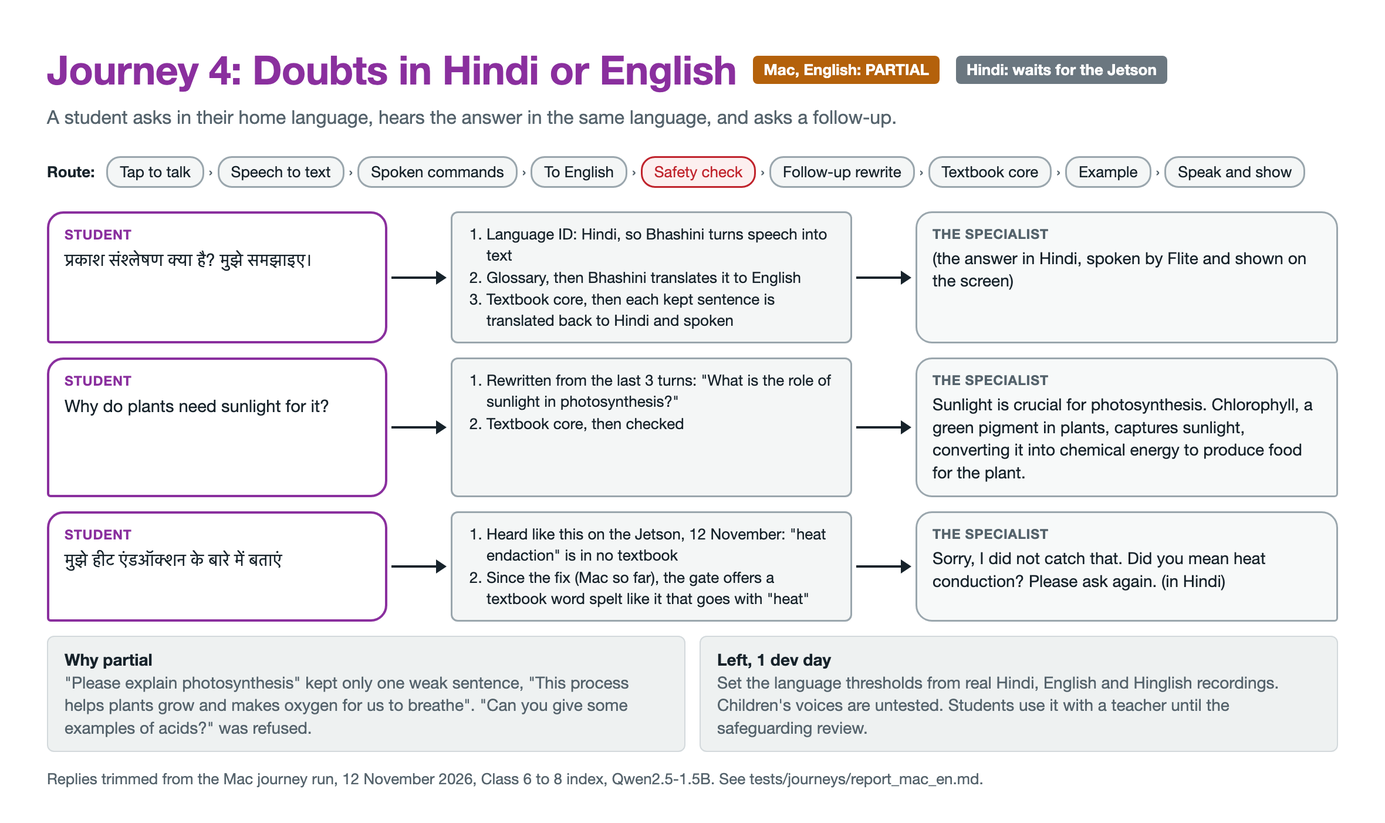
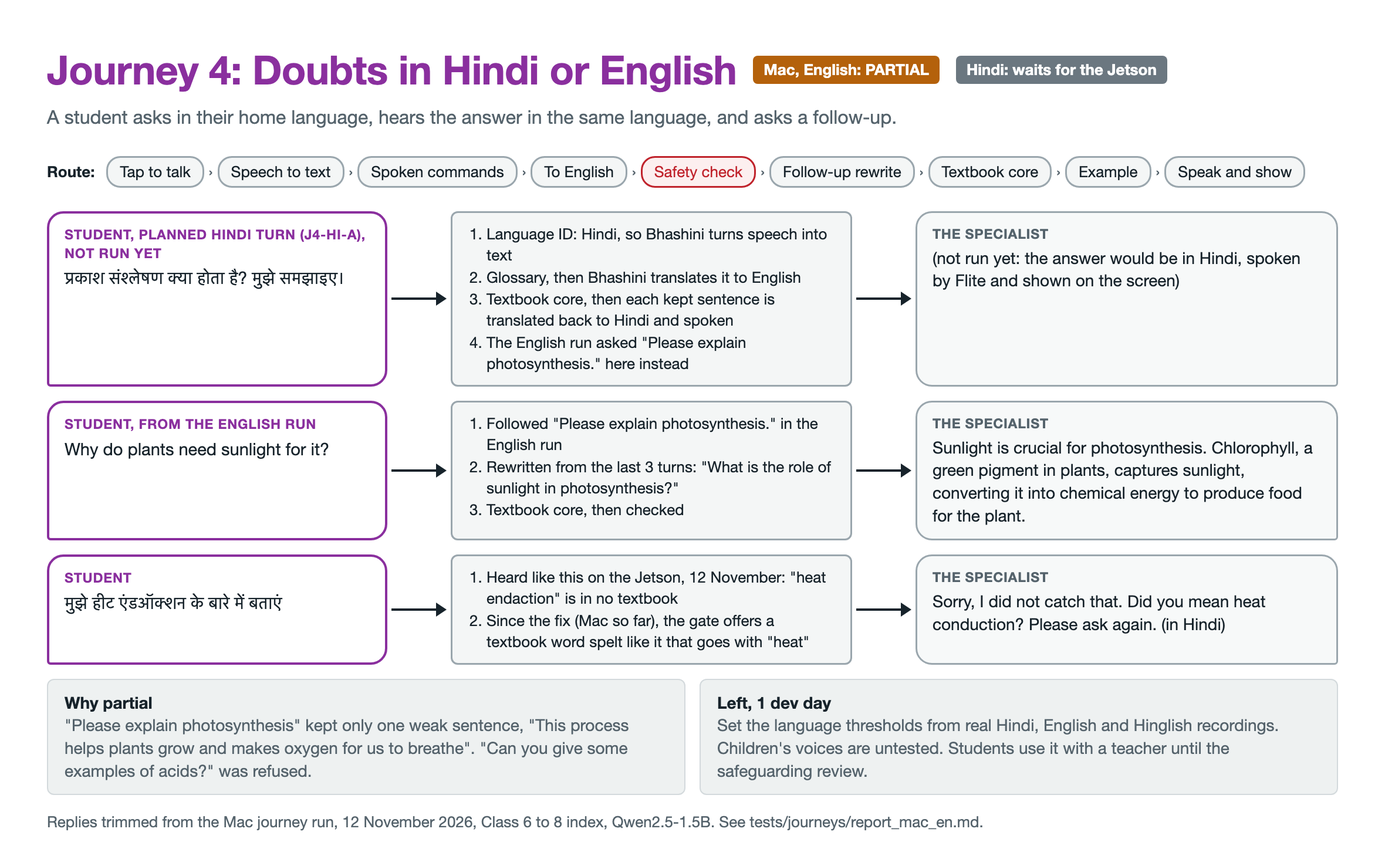
Keep the screen on from the inventory, ship the journey runner, fix doc contradictions

diff --git a/docs/diagrams/j4.html b/docs/diagrams/j4.html
@@ -14,8 +14,8 @@
 <div class="head2"><h1 class="j4" style="margin:0">Journey 4: Doubts in Hindi or English</h1><span class="status partial">Mac, English: PARTIAL</span><span class="status pending">Hindi: waits for the Jetson</span></div>
 <p class="sub">A student asks in their home language, hears the answer in the same language, and asks a follow-up.</p>
 <div class="route"><b style="margin-right:6px">Route:</b><span class="step">Tap to talk</span><span class="to">›</span><span class="step">Speech to text</span><span class="to">›</span><span class="step">Spoken commands</span><span class="to">›</span><span class="step">To English</span><span class="to">›</span><span class="step safety">Safety check</span><span class="to">›</span><span class="step">Follow-up rewrite</span><span class="to">›</span><span class="step">Textbook core</span><span class="to">›</span><span class="step">Example</span><span class="to">›</span><span class="step">Speak and show</span></div>
-<div class="turn"><div class="said"><small>Student</small>प्रकाश संश्लेषण क्या है? मुझे समझाइए।</div><div class="mini"></div><div class="steps"><ol><li>Language ID: Hindi, so Bhashini turns speech into text</li><li>Glossary, then Bhashini translates it to English</li><li>Textbook core, then each kept sentence is translated back to Hindi and spoken</li></ol></div><div class="mini"></div><div class="reply"><small>The Specialist</small>(the answer in Hindi, spoken by Flite and shown on the screen)</div></div>
-<div class="turn"><div class="said"><small>Student</small>Why do plants need sunlight for it?</div><div class="mini"></div><div class="steps"><ol><li>Rewritten from the last 3 turns: "What is the role of sunlight in photosynthesis?"</li><li>Textbook core, then checked</li></ol></div><div class="mini"></div><div class="reply"><small>The Specialist</small>Sunlight is crucial for photosynthesis. Chlorophyll, a green pigment in plants, captures sunlight, converting it into chemical energy to produce food for the plant.</div></div>
+<div class="turn"><div class="said"><small>Student, planned Hindi turn (J4-hi-a), not run yet</small>प्रकाश संश्लेषण क्या होता है? मुझे समझाइए।</div><div class="mini"></div><div class="steps"><ol><li>Language ID: Hindi, so Bhashini turns speech into text</li><li>Glossary, then Bhashini translates it to English</li><li>Textbook core, then each kept sentence is translated back to Hindi and spoken</li><li>The English run asked "Please explain photosynthesis." here instead</li></ol></div><div class="mini"></div><div class="reply"><small>The Specialist</small>(not run yet: the answer would be in Hindi, spoken by Flite and shown on the screen)</div></div>
+<div class="turn"><div class="said"><small>Student, from the English run</small>Why do plants need sunlight for it?</div><div class="mini"></div><div class="steps"><ol><li>Followed "Please explain photosynthesis." in the English run</li><li>Rewritten from the last 3 turns: "What is the role of sunlight in photosynthesis?"</li><li>Textbook core, then checked</li></ol></div><div class="mini"></div><div class="reply"><small>The Specialist</small>Sunlight is crucial for photosynthesis. Chlorophyll, a green pigment in plants, captures sunlight, converting it into chemical energy to produce food for the plant.</div></div>
 <div class="turn"><div class="said"><small>Student</small>मुझे हीट एंडऑक्शन के बारे में बताएं</div><div class="mini"></div><div class="steps"><ol><li>Heard like this on the Jetson, 12 November: "heat endaction" is in no textbook</li><li>Since the fix (Mac so far), the gate offers a textbook word spelt like it that goes with "heat"</li></ol></div><div class="mini"></div><div class="reply"><small>The Specialist</small>Sorry, I did not catch that. Did you mean heat conduction? Please ask again. (in Hindi)</div></div>
 <div class="cols2" style="margin-top:8px"><div class="note"><b>Why partial</b><br>"Please explain photosynthesis" kept only one weak sentence, "This process helps plants grow and makes oxygen for us to breathe". "Can you give some examples of acids?" was refused.</div><div class="note"><b>Left, 1 dev day</b><br>Set the language thresholds from real Hindi, English and Hinglish recordings. Children's voices are untested. Students use it with a teacher until the safeguarding review.</div></div>
 <p class="sub" style="font-size:13px;margin:14px 0 0">Replies trimmed from the Mac journey run, 12 November 2026, Class 6 to 8 index, Qwen2.5-1.5B. See tests/journeys/report_mac_en.md.</p>

diff --git a/docs/diagrams/journeys.py b/docs/diagrams/journeys.py
@@ -112,13 +112,15 @@ JOURNEYS = [
         "status": [("partial", "Mac, English: PARTIAL"), ("pending", "Hindi: waits for the Jetson")],
         "route": ["tap", "asr", "cmd", "mt", "safety", "rewrite", "core", "example", "out"],
         "turns": [
-            ("Student", "प्रकाश संश्लेषण क्या है? मुझे समझाइए।",
+            ("Student, planned Hindi turn (J4-hi-a), not run yet", "प्रकाश संश्लेषण क्या होता है? मुझे समझाइए।",
              ["Language ID: Hindi, so Bhashini turns speech into text",
               "Glossary, then Bhashini translates it to English",
-              "Textbook core, then each kept sentence is translated back to Hindi and spoken"],
-             "(the answer in Hindi, spoken by Flite and shown on the screen)", False),
-            ("Student", "Why do plants need sunlight for it?",
-             ["Rewritten from the last 3 turns: \"What is the role of sunlight in photosynthesis?\"",
+              "Textbook core, then each kept sentence is translated back to Hindi and spoken",
+              "The English run asked \"Please explain photosynthesis.\" here instead"],
+             "(not run yet: the answer would be in Hindi, spoken by Flite and shown on the screen)", False),
+            ("Student, from the English run", "Why do plants need sunlight for it?",
+             ["Followed \"Please explain photosynthesis.\" in the English run",
+              "Rewritten from the last 3 turns: \"What is the role of sunlight in photosynthesis?\"",
               "Textbook core, then checked"],
              "Sunlight is crucial for photosynthesis. Chlorophyll, a green pigment in plants, captures sunlight, "
              "converting it into chemical energy to produce food for the plant.", False),

diff --git a/tests/journeys/run_journeys.py b/tests/journeys/run_journeys.py
@@ -14,10 +14,14 @@ real answer model (Qwen in Ollama), the real answer check and the real safety ch
     python3 -W ignore tests/journeys/run_journeys.py --lang en --out tests/journeys/report_mac_en.md
     python3 -W ignore tests/journeys/run_journeys.py --journey J3 --variant J3-en-a
 
-On the Jetson, where Bhashini runs, for the Hindi variants:
+On the Jetson, where Bhashini runs, for the Hindi variants. The install puts this file in
+/opt/specialist/app/tests/journeys and adds the specialist-journeys command, which runs it
+with the voice service's index, models, Ollama model and settings, but never with the
+switch-off permission or the screen. Stop the service first to free memory:
 
-    cd ~/specialist && PYTHONPATH=python:. /opt/specialist/venv/bin/python -W ignore \\
-        tests/journeys/run_journeys.py --lang hi --out ~/journeys_hi.md
+    sudo systemctl stop specialist-voice
+    specialist-journeys --lang hi --out ~/journeys_hi.md
+    sudo systemctl start specialist-voice
 
 A variant passes when every check on every turn passes. It fails when a turn marked
 "core" fails, since then the journey cannot go on as the user expects; otherwise it is
@@ -44,6 +48,7 @@ from datetime import datetime
 from typing import Dict, List, Optional
 
 HERE = os.path.dirname(os.path.abspath(__file__))
+# The repo, or /opt/specialist/app on the device: both hold python/ and local/ here.
 ROOT = os.path.dirname(os.path.dirname(HERE))
 sys.path.insert(0, os.path.join(ROOT, "python"))
 sys.path.insert(0, ROOT)

diff --git a/module/README.md b/module/README.md
@@ -18,17 +18,18 @@ Sizes are on disk. Measured from the files the module ships, except where marked
 | Safety model, `nli-safety-onnx` | `/opt/specialist/models` | 181 MB |
 | Spoken language ID, `lang-id-ecapa-onnx` | `/opt/specialist/models` | 86 MB |
 | Reading pages, Tesseract with Hindi and English | System package | |
-| DIKSHA index, the one the voice loop uses | `/opt/specialist/corpus` | 21 MB for `diksha_g7_all` |
+| DIKSHA index, the one the voice loop uses | `/opt/specialist/corpus` | 107 MB for `diksha_g6_8_science`, 42,426 Class 6 to 8 science passages |
 | Teacher examples, blank until a teacher fills it in | `/opt/specialist/teacher_examples.txt` | |
 | Checked teacher examples, made at the first start after a new file | `/opt/specialist/cache` | under 1 MB |
 | Pipeline code and Python environment | `/opt/specialist/app`, `/opt/specialist/venv` | about 300 MB, an estimate |
 | Command to run it | `/usr/local/bin/specialist-voice` | |
+| Journey runner and its scripts, with the command to run them | `/opt/specialist/app/tests/journeys`, `/usr/local/bin/specialist-journeys` | under 1 MB |
 | Hardware settings | `/etc/default/specialist` | |
 | Ollama memory settings | `/etc/systemd/system/ollama.service.d/specialist.conf` | |
 | Camera rules | `/etc/udev/rules.d/99-specialist-devices.rules` | |
 | Permission to switch off by voice | `/etc/sudoers.d/specialist-poweroff` | |
 | Boot check | `specialist-boot-check` service | |
-| Voice loop at boot | `specialist-voice` service, started by the talk button | |
+| Voice loop at boot | `specialist-voice` service, started at boot. The talk button, or a tap on the screen, starts each recording | |
 
 The Specialist's Python environment holds six packages and what they bring with them: `numpy`, `requests`, `ollama`, `onnxruntime` (the CPU build), `tokenizers` and `faster-whisper`. The list is in `requirements-specialist.txt`. System packages go in without recommended extras, and pip keeps no download cache.
 
@@ -52,7 +53,7 @@ The first time only, make the inventory:
 cd "/Users/aakashsangani/Desktop/Suno-Sutra-SW/Specialist v1/dist/specialist-module/ansible" && cp inventory.ini.sample inventory.ini
 ```
 
-Set your device name and user in `inventory.ini`, then run:
+Set your device name and user in `inventory.ini`. If the device has the 2.8 inch touch screen, also uncomment the two `specialist_screen=true` lines at the end, so every install keeps the screen on (see [The screen](#the-screen)). Then run:
 
 ```bash
 ansible-playbook -i inventory.ini install_specialist.yml -K
@@ -60,11 +61,23 @@ ansible-playbook -i inventory.ini install_specialist.yml -K
 
 `-K` asks for the device's sudo password. The playbook is safe to re-run, because finished steps get skipped and downloads resume. It ends by asking test questions in English and Hindi, and it fails if the device does not cite a source, refuse an off-topic question or answer in Hindi.
 
-To update only the code after a change, which is the usual case, run this from the Mac:
+To update the code after a change, which is the usual case, run this from the Mac:
 
 ```bash
-cd "/Users/aakashsangani/Desktop/Suno-Sutra-SW/Specialist v1" && ./scripts/make_module.sh && cd dist/specialist-module/ansible && ansible-playbook -i inventory.ini install_specialist.yml -K --tags app,boot,verify
+cd "/Users/aakashsangani/Desktop/Suno-Sutra-SW/Specialist v1" && ./scripts/make_module.sh && cd dist/specialist-module/ansible && ansible-playbook -i inventory.ini install_specialist.yml -K --tags app,boot,screen,verify
 ```
+
+- `app` installs the code, the Python packages, `specialist-voice` and `specialist-journeys`.
+- `boot` and `screen` install the services and settings applied at every boot, the screen's setup when `specialist_screen` is on, and the voice loop service, then restart the voice loop so it runs the new code. Both rewrite the service from `specialist_screen`, so with the inventory line the screen stays on, and without it the screen goes off unless you add `-e specialist_screen=true`.
+- `verify` asks the test questions. It pauses the voice loop and starts it again at the end.
+
+When the index has changed as well, add `content`. That is after building a new index, or the first update since the device last got one, such as the move to the Class 6 to 8 index. `content` copies the index, about 107 MB, and removes any other index on the device. A code-only update leaves the old index in place:
+
+```bash
+cd "/Users/aakashsangani/Desktop/Suno-Sutra-SW/Specialist v1" && ./scripts/make_module.sh && cd dist/specialist-module/ansible && ansible-playbook -i inventory.ini install_specialist.yml -K --tags app,boot,screen,content,verify
+```
+
+The voice loop restarts before the index is copied, so keep `verify` in the same run: it stops the loop and starts it again after the new index is in. Without `verify`, restart it on the Jetson with `sudo systemctl restart specialist-voice`. A run with no `--tags` at all also works, and skips the steps already done.
 
 The first run after the memory settings below came in restarts Ollama and Bhashini once, so it takes a few minutes longer.
 
@@ -81,6 +94,7 @@ Change these in the inventory or with `-e`. The full list is in `ansible/roles/s
 | `specialist_assets_dir` | Reuse files you have already downloaded |
 | `specialist_voice_autostart` | Start the voice loop at boot. Set to `false` to run it only by hand |
 | `specialist_voice_in_lang`, `specialist_voice_out_lang` | The languages of the loop started at boot. `auto`, the default, works out each question's language and answers in it |
+| `specialist_screen` | Turn on the 2.8 inch touch screen. Off by default. Set it in the inventory for a device that has one. See [The screen](#the-screen) |
 | `specialist_trigger` | The talk button: `key` for any USB keyboard or keypad (Enter), or `gpio` for a touch sensor |
 | `specialist_gpio_chip`, `specialist_gpio_line` | With `gpio`, the chip and line the sensor's signal is wired to |
 | `specialist_ollama_env` | Ollama's memory settings. See [Memory](#memory) |
@@ -88,7 +102,7 @@ Change these in the inventory or with `-e`. The full list is in `ansible/roles/s
 | `specialist_headless` | Boot to the text console instead of the desktop. Off by default |
 | `specialist_prune_ollama_models` | Delete every Ollama model except `specialist_llm_model`. Off by default |
 
-To update only the syllabus:
+To update only the syllabus, then restart the voice loop on the Jetson with `sudo systemctl restart specialist-voice` so it reads the new index:
 
 ```bash
 ansible-playbook -i inventory.ini install_specialist.yml -K --tags content
@@ -226,6 +240,22 @@ specialist-voice --in-lang en --out-lang en --from-image page.jpg
 
 `--no-speak` prints the answer without playing it. Each answer prints how long every step took, under `[steps]`.
 
+To run the four scripted user journeys and write a pass or fail report, stop the voice loop service first to free memory, then start it again afterwards:
+
+```bash
+sudo systemctl stop specialist-voice
+```
+
+```bash
+specialist-journeys --lang hi --out ~/journeys_hi.md
+```
+
+```bash
+sudo systemctl start specialist-voice
+```
+
+`specialist-journeys` uses the same index, models, answer model and settings as the service, but it never switches the device off and does not use the screen. `--lang en` runs the English scripts, and `--journey J3` or `--variant J3-hi-a` runs part of them. More in [tests/README.md](../tests/README.md#user-journeys) in the repo.
+
 Saying "repeat that" or "दोबारा बोलो" plays the last answer again. Saying "slower" or "धीरे बोलो" plays it at 80% speed, with a pause after each sentence for writing it down. Neither asks the question again. Saying "new topic", "change the topic" or "विषय बदलो" clears the conversation and asks for the next question; "New topic. What is friction?" clears it and answers. Saying "that's all", "thank you", "stop", "बस" or "धन्यवाद" clears it and says a short goodbye. Words like "okay", "now", "please", "अच्छा" and "अब" around a command are ignored, and "okay" on its own is skipped, except during a quiz.
 
 Saying "switch off", "shut down", "बंद हो जाओ", "स्विच ऑफ़" or "switch off karo" asks "Do you want me to switch off?". Only the very next thing said counts: "yes", "हाँ" or "switch off" again within 20 seconds, and the device says "Switching off. Wait for the fan to stop before you unplug me.", shows it on the screen, then shuts down. Anything else gets "Okay, I'll stay on." and is not answered as a question. A question about switching something else off, such as "What happens when you switch off the light?", is answered as usual.
@@ -252,11 +282,20 @@ Wiring, with the Jetson off (the Jetson's header pin numbers):
 | Jetson pin | 2 | 6 | 19 | 21 | 23 | 24 | 26 | 29 | 31 | 32 | not used |
 
 1. On the Jetson, turn on spi1 from jetson-io's menu: run `sudo /opt/nvidia/jetson-io/jetson-io.py`, choose Configure Jetson 40pin Header, then Configure header pins manually. Tick spi1, then go Back, Save pin changes, and Save and reboot. Its command-line tool saves the setting without adding it to the boot entry, so use the menu.
-2. From the Mac, install with the screen on, then reboot the Jetson:
+2. Turn the screen on for the `specialist` group in `inventory.ini`, as `inventory.ini.sample` shows:
+
+```ini
+[specialist:vars]
+specialist_screen=true
+```
+
+3. From the Mac, install, then reboot the Jetson:
 
 ```bash
-~/Library/Python/3.9/bin/ansible-playbook -i inventory.ini install_specialist.yml -K -e specialist_screen=true --tags app,screen
+~/Library/Python/3.9/bin/ansible-playbook -i inventory.ini install_specialist.yml -K --tags app,screen
 ```
+
+With that line in the inventory the screen is on for every install, whatever its tags. `-e specialist_screen=true` on the command line does the same for one run, and is needed only when the inventory does not have the line. Without either, any install with the `boot` or `screen` tag rewrites the voice loop service with the screen off, because `specialist_screen` is off by default.
 
 The install does five things:
 - It stops if spi1 is off.
@@ -299,15 +338,25 @@ It ends in `READY`, or `NOT READY` with the problems listed above it. The voice 
 
 ## Power mode
 
-The role does not change the power mode, because switching can require a reboot. On the Orin Nano Super, `MAXN_SUPER` is mode 2:
+We run the Jetson in its 25 W mode. The role does not set the power mode, because switching can require a reboot, so set it by hand once on the Jetson. On the Orin Nano 8GB Super with JetPack 6.2, mode 1 is 25 W and mode 2 is `MAXN_SUPER`, but check the numbers on the device first. This shows the current mode:
 
 ```bash
-sudo nvpmodel -m 2
+sudo nvpmodel -q
 ```
 
+This lists every mode's number and name:
+
 ```bash
-sudo jetson_clocks
+grep POWER_MODEL /etc/nvpmodel.conf
 ```
+
+Then set the 25 W mode by its number, 1 if the list agrees:
+
+```bash
+sudo nvpmodel -m 1
+```
+
+The mode stays set across reboots. `sudo jetson_clocks` also fixes the clocks at the mode's highest speed, until the next reboot.
 
 ## Undo it
 
@@ -318,7 +367,7 @@ sudo systemctl disable --now specialist-voice bhashini_models specialist-boot-ch
 ```
 
 ```bash
-sudo rm -rf /opt/specialist /usr/local/bin/specialist-voice /usr/local/bin/specialist-boot-check /usr/local/bin/specialist-usb-power /etc/default/specialist /etc/udev/rules.d/99-specialist-devices.rules /etc/systemd/system/bhashini_models.service /etc/systemd/system/specialist-boot-check.service /etc/systemd/system/specialist-voice.service /etc/systemd/system/ollama.service.d/specialist.conf /etc/sudoers.d/specialist-poweroff
+sudo rm -rf /opt/specialist /usr/local/bin/specialist-voice /usr/local/bin/specialist-journeys /usr/local/bin/specialist-boot-check /usr/local/bin/specialist-usb-power /etc/default/specialist /etc/udev/rules.d/99-specialist-devices.rules /etc/systemd/system/bhashini_models.service /etc/systemd/system/specialist-boot-check.service /etc/systemd/system/specialist-voice.service /etc/systemd/system/ollama.service.d/specialist.conf /etc/sudoers.d/specialist-poweroff
 ```
 
 Ollama and the system packages stay installed.

diff --git a/README.md b/README.md
@@ -23,7 +23,7 @@ This sprint turned a question-answering box into a classroom assistant that cove
 - **It works out the language itself.** A small language ID model and Whisper's confidence decide Hindi or English for every question. Nobody sets anything, and the answer comes back in the language you asked in.
 - **Teachers get lesson plans.** Tell it what the class covered yesterday and ask for tomorrow's plan. It gives a recap, the key ideas, a simpler version for students who need more help, a question to check understanding and one to stretch students who are ahead. The questions get quoted from the textbook, never invented.
 - **Students get a quiz.** Questions come straight from the textbook. Every spoken answer gets checked against it, and a wrong answer hears the checked textbook explanation. No scores get kept.
-- **Multi-grade classes get revision by class.** "Revise force with class 6", then "now do the same for class 8", draws on each class's own books.
+- **Multi-grade classes get revision by class.** "I just taught class 7 science, photosynthesis. Please revise it with the students", then "now do the same for class 8", searches each class's own books first. It is not reliable yet: all three revision scripts failed on the Mac (see [Journeys](#journeys)).
 - **Examples come from the children's own lives.** After an explanation, the device adds one example from village life. Teachers can hand it their own list of 30 to 40 everyday examples to draw from. Every example gets checked: it must show a textbook fact and add nothing new.
 - **Three classes of science, one open licence.** The index covers Class 6 to 8 science: 42,426 passages from 1,499 books, all CC BY 4.0, with teacher's handbooks and lesson aims taken out. It answers 21 of 22 science questions and refuses 28 of 30 off-topic ones.
 - **A screen you tap to talk.** A 2.8 inch touch screen shows whether the device is listening or thinking, then the question as heard and the answer sentence by sentence, in Hindi or English. A tap starts and stops recording.
@@ -35,7 +35,7 @@ We also tested a bigger answer model, Qwen3.5-2B, and kept Qwen2.5-1.5B. The sma
 
 ## Status, 12 November 2026
 
-The full loop runs on the Jetson Orin Nano with the network off: tap the screen, ask in Hindi or English, and hear and read the answer. The screen, tap to talk, topic changes and the way to end were tested on the device today. The lesson-aim and misheard-word fixes, the new index and the Hindi journey run are tested on the Mac only; the next install brings them to the Jetson. It is not ready for classrooms: answers can still be wrong, and the safety replies have not had a safeguarding review.
+The full loop runs on the Jetson Orin Nano with the network off: tap the screen, ask in Hindi or English, and hear and read the answer. The screen, tap to talk, topic changes and the way to end were tested on the device today. The lesson-aim and misheard-word fixes and the new index are tested on the Mac only; the next install brings them to the Jetson. The journeys have been run in English on the Mac only. The Hindi journeys need Bhashini, so they have not been run yet and wait for the Jetson. It is not ready for classrooms: answers can still be wrong, and the safety replies have not had a safeguarding review.
 
 ### Journeys
 
@@ -60,7 +60,7 @@ Each journey has its own diagram under [The four journeys](#the-four-journeys). 
 | Class 6 to 8 science index, CC BY 4.0 | Done. 42,426 passages from 1,499 books at the 0.80 search score. Science 21 of 22 answered, off-topic 28 of 30 refused (see [ingest/README.md](ingest/README.md)) | 0 |
 | Lesson aims read out as answers, and a misheard word | Done on the Mac. Teacher's handbooks and passages that state lesson aims are out of the index (4,512 passages), and the answer check drops a sentence such as "Students will …". "Tell me about the heat endaction" gets "Did you mean heat conduction? Please ask again." Benchmark unchanged | 0 |
 | Spoken commands: repeat, slower, new topic, finish | Done and tested on the Jetson. Heard through filler words in both languages | 0 |
-| Screen and tap to talk | Done and tested on the Jetson. ST7789 display and touch on spi1, installed with `-e specialist_screen=true` | 0 |
+| Screen and tap to talk | Done and tested on the Jetson. ST7789 display and touch on spi1, turned on by `specialist_screen=true` in the device's inventory, so every install keeps it | 0 |
 | Answer model | Decided: Qwen2.5-1.5B stays. Qwen3.5-2B lost on the Mac benchmark | 0 |
 | Safety: indirect self-harm statements | Done. Holdout 13 of 14 caught, no new false alarms | 0 |
 | Wrong answers: Edison and the telephone, "how do I cook food" | Done. A credit for an invention must be in the passage, and everyday how-to requests are refused | 0 |
@@ -147,7 +147,7 @@ A student asks in Hindi or English and hears the answer in the same language. A 
 | Page reading | Tesseract, Hindi and English | CPU |
 | Screen | `local/screen.py`: ST7789 display and XPT2046 touch over SPI, drawn with Pillow | CPU |
 
-**Tried and dropped:** Qwen3.5-2B (11 November: refused 27 of 30 off-topic against 29, answered 52 of 60 against 53, first sentence about 4 times slower, and more wrong facts and markdown got past the check), SmolLM3, `llama3.2:1b` (excluded by Mozilla's call), Pleias-RAG-1B (far slower, with basic errors), Kokoro (about 1 s slower), Piper's Rohan voice (stuttered in English, licence unclear), a separate TTP223 touch sensor (the screen is the talk button).
+**Tried and dropped:** Qwen3.5-2B (11 November, on the Class 7 index then in use: refused 27 of 30 off-topic against Qwen2.5-1.5B's 29, answered 52 of 60 against 53, first sentence about 4 times slower, and more wrong facts and markdown got past the check), SmolLM3, `llama3.2:1b` (excluded by Mozilla's call), Pleias-RAG-1B (far slower, with basic errors), Kokoro (about 1 s slower), Piper's Rohan voice (stuttered in English, licence unclear), a separate TTP223 touch sensor (the screen is the talk button).
 
 ## Known gaps
 
@@ -208,7 +208,7 @@ Finding a safeguarding reviewer runs alongside, since journeys 3 and 4 wait on i
 
 | Part | What we use |
 |---|---|
-| Computer | Jetson Orin Nano 8GB Super Developer Kit, 25 W mode |
+| Computer | Jetson Orin Nano 8GB Super Developer Kit, 25 W mode, set by hand once, since the install does not set it (see [Power mode](module/README.md#power-mode)) |
 | Power | The 19 V mains adapter, or a USB-C power bank (45 to 100 W, 15 V / 3 A, about 20,000 mAh, pass-through charging) through the ETZIN cable set to 15 V |
 | Microphone and camera | Arducam 8MP USB camera (B0292) |
 | Speaker | USB speaker |
@@ -219,12 +219,14 @@ Finding a safeguarding reviewer runs alongside, since journeys 3 and 4 wait on i
 
 Install steps are in [module/README.md](module/README.md). After the install, the loop starts at boot and the screen shows "Tap to ask". Tap the screen (or press Enter on a USB keyboard) to record, and tap again to stop.
 
-Things to say:
+Things to say. The lesson plan, the chlorophyll pair, the quiz, "repeat that" and "slower" passed the English journey run on the Mac. "What is photosynthesis?" is the install's own check, and the Hindi question, "new topic" and "that's all" were tried on the Jetson:
 - "What is photosynthesis?" or "प्रकाश संश्लेषण क्या है?"
 - "Give me a lesson plan on photosynthesis for tomorrow's class"
-- "Revise acids with class 7", then "now do the same for class 8"
-- "Quiz us on photosynthesis", then "stop the quiz"
+- "What is chlorophyll?", then "Why do leaves need it to make food?"
+- "We are class 7 science. Quiz us on photosynthesis", then "stop the quiz"
 - "Repeat that", "slower", "new topic", "that's all"
+
+Leave out revision by class, such as "Revise acids with class 7", then "now do the same for class 8". Journey 2 failed all three scripts, so it is not reliable yet.
 
 To run it by hand on the Jetson, stop the service first, then press Enter in the terminal to record:
 

diff --git a/docs/demo_runbook.md b/docs/demo_runbook.md
@@ -109,10 +109,10 @@ Honest status: it is not ready for classrooms. Answers can still be wrong, and t
 ## 7. Before you leave on Monday
 
 - [ ] Code frozen after the final reinstall. No edits after it.
-- [ ] Final reinstall from the Mac: `./scripts/make_module.sh`, then in `dist/specialist-module/ansible`: `ansible-playbook -i inventory.ini install_specialist.yml -K -e specialist_screen=true`. Use the full install, so the new Class 6 to 8 index and the misheard-word fix reach the Jetson. The code-only update (`--tags app,boot,verify`) leaves the index out, and without `-e specialist_screen=true` it rewrites the service with the screen off.
+- [ ] Final reinstall from the Mac: `./scripts/make_module.sh`, then in `dist/specialist-module/ansible`: `ansible-playbook -i inventory.ini install_specialist.yml -K`. Use the full install, so the new Class 6 to 8 index, the misheard-word fix and the journey runner reach the Jetson. A code-only update (`--tags app,boot,screen,verify`) leaves the index out. The inventory sets `specialist_screen=true`, so every install keeps the screen on without `-e`.
 - [ ] The install's own checks pass: a cited answer, the cricket refusal and a Hindi answer.
 - [ ] After a reboot: the boot check says `READY` and the screen says "Tap to ask".
-- [ ] Journey runner on the Jetson in English and Hindi, with the voice loop stopped (`sudo systemctl stop specialist-voice`). Write down pass or fail for each journey. Remove any demo turn that failed. Start the loop again with `sudo systemctl start specialist-voice`.
+- [ ] Journey runner on the Jetson in English and Hindi, with the voice loop stopped (`sudo systemctl stop specialist-voice`): `specialist-journeys --lang en --out ~/journeys_en.md`, then `specialist-journeys --lang hi --out ~/journeys_hi.md`. Write down pass or fail for each journey. Remove any demo turn that failed. Start the loop again with `sudo systemctl start specialist-voice`.
 - [ ] Full dry run of this script on the power bank, with the ETZIN cable reading 15.0 V. Time the cold boot and each turn, and note the battery left at the end.
 - [ ] Fill the Sunday gaps into this runbook: boot time, Jetson answer times, speaker volume, laptop link, the Hindi turn, the quiz wrong answer and "heat endaction".
 - [ ] Power bank charged to full. Pack list ticked.

diff --git a/tests/README.md b/tests/README.md
@@ -86,10 +86,18 @@ On the Mac, in English, with Ollama running (about 3 minutes on 11 November, lon
 python3 -W ignore tests/journeys/run_journeys.py --lang en --out tests/journeys/report_mac_en.md
 ```
 
-`--journey J3` or `--variant J3-en-a` runs part of it, and `--json` saves every turn. On the Jetson, in Hindi, after copying `python`, `tests` and `local` across (the rsync command above) and stopping the voice loop service:
+`--journey J3` or `--variant J3-en-a` runs part of it, and `--json` saves every turn. The install puts the runner and its scripts in `/opt/specialist/app/tests/journeys` and adds the `specialist-journeys` command, which runs it with the voice service's index, models, Ollama model and settings, but never with the switch-off permission or the screen. On the Jetson, in Hindi, stop the voice loop service to free memory, run the journeys, then start the service again:
 
 ```bash
-cd ~/specialist && PYTHONPATH=python:. /opt/specialist/venv/bin/python -W ignore tests/journeys/run_journeys.py --lang hi --out ~/journeys_hi.md
+sudo systemctl stop specialist-voice
+```
+
+```bash
+specialist-journeys --lang hi --out ~/journeys_hi.md
+```
+
+```bash
+sudo systemctl start specialist-voice
 ```
 
 `--lang en` works on the Jetson too. Hindi needs Bhashini, so the runner stops at once if it is not answering.
